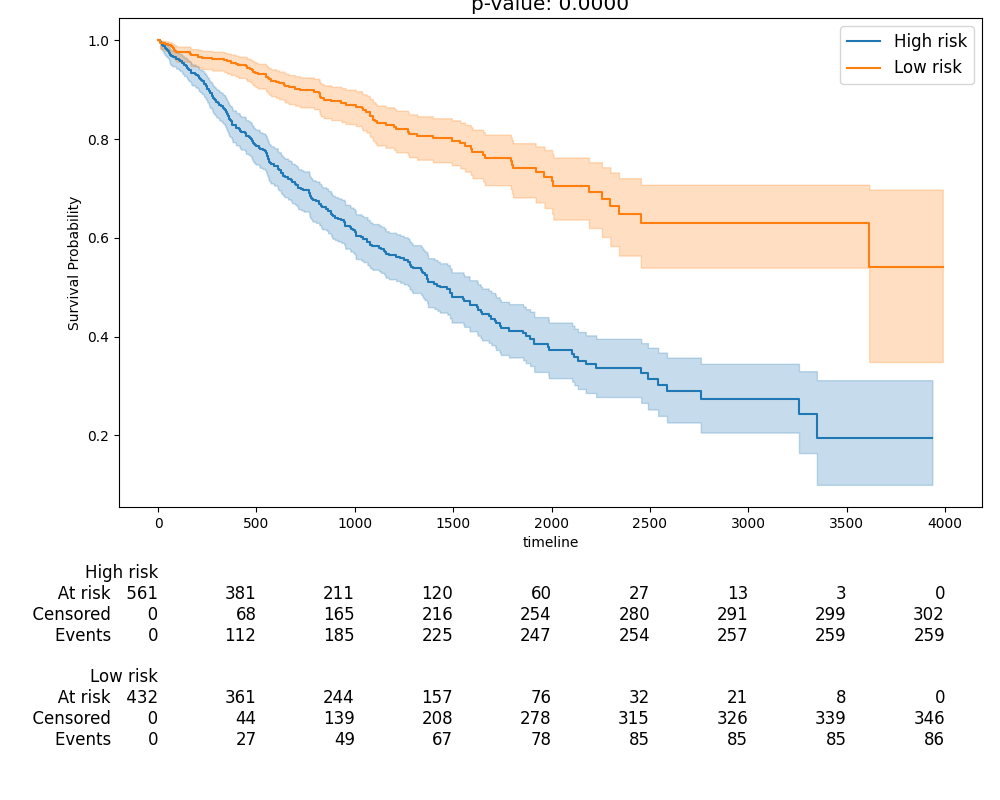
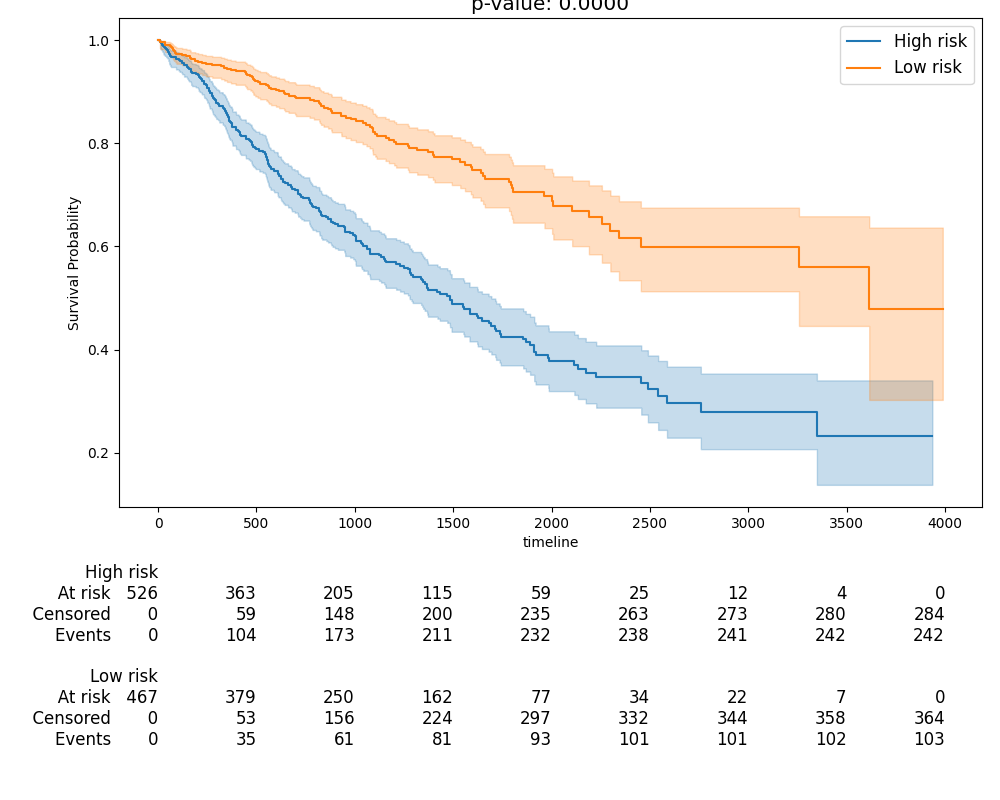
update bandit

diff --git a/analysis/a05_outcome_prediction/m_survival_analysis.py b/analysis/a05_outcome_prediction/m_survival_analysis.py
@@ -4569,7 +4569,7 @@ class SurvivalAnalyzer:
             entropy_weight=0.05,
             rp_cost_weight=0.0,
             temperature=1.0,
-            hard_policy=False,
+            hard_policy=True,
             gumbel_temperature=1.0,
             gumbel_min_temperature=0.1,
             gumbel_anneal_rate=0.95,
